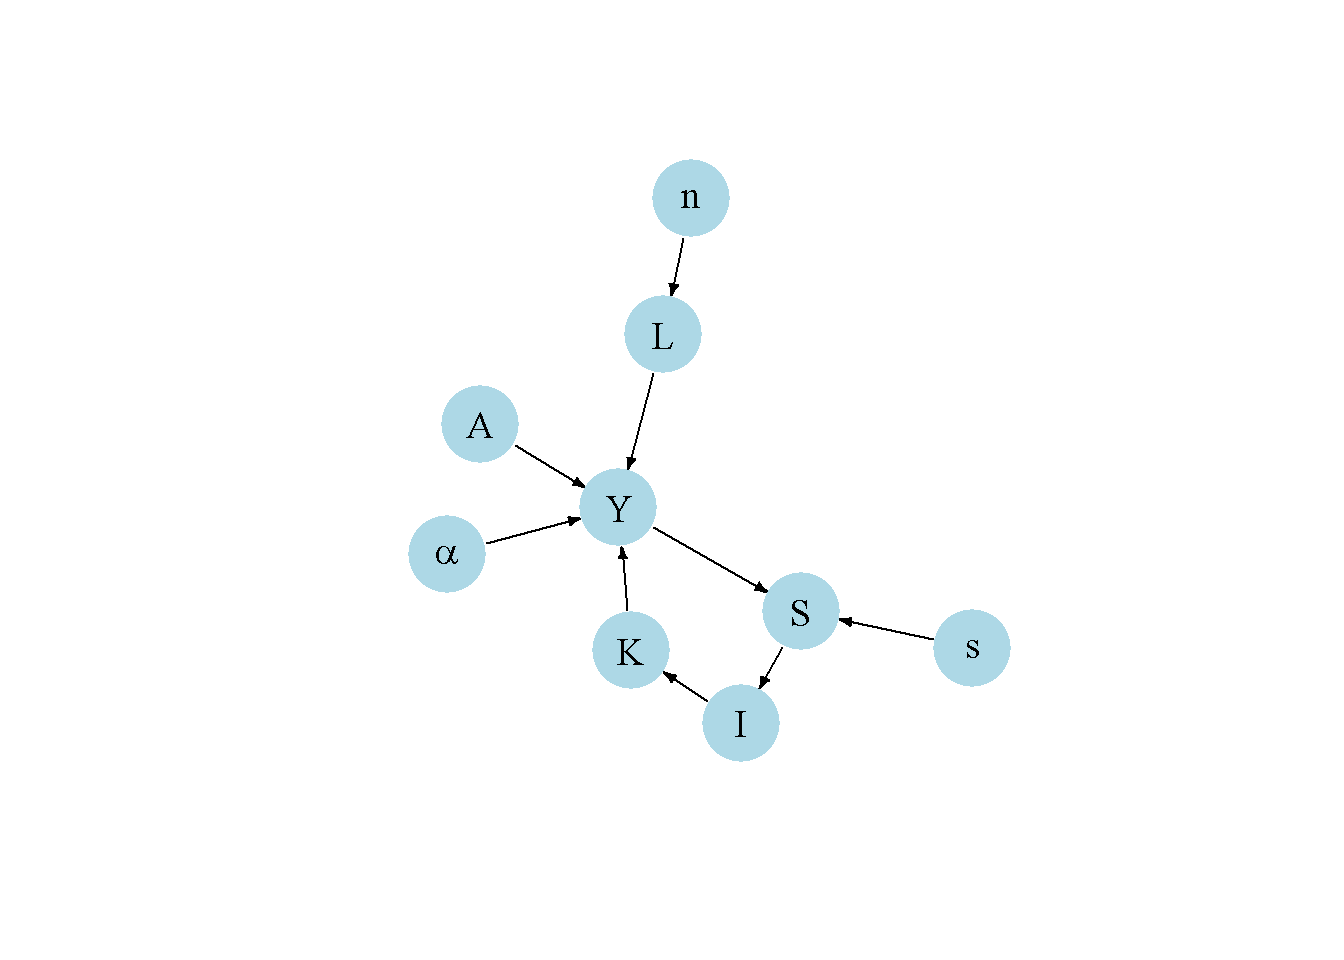
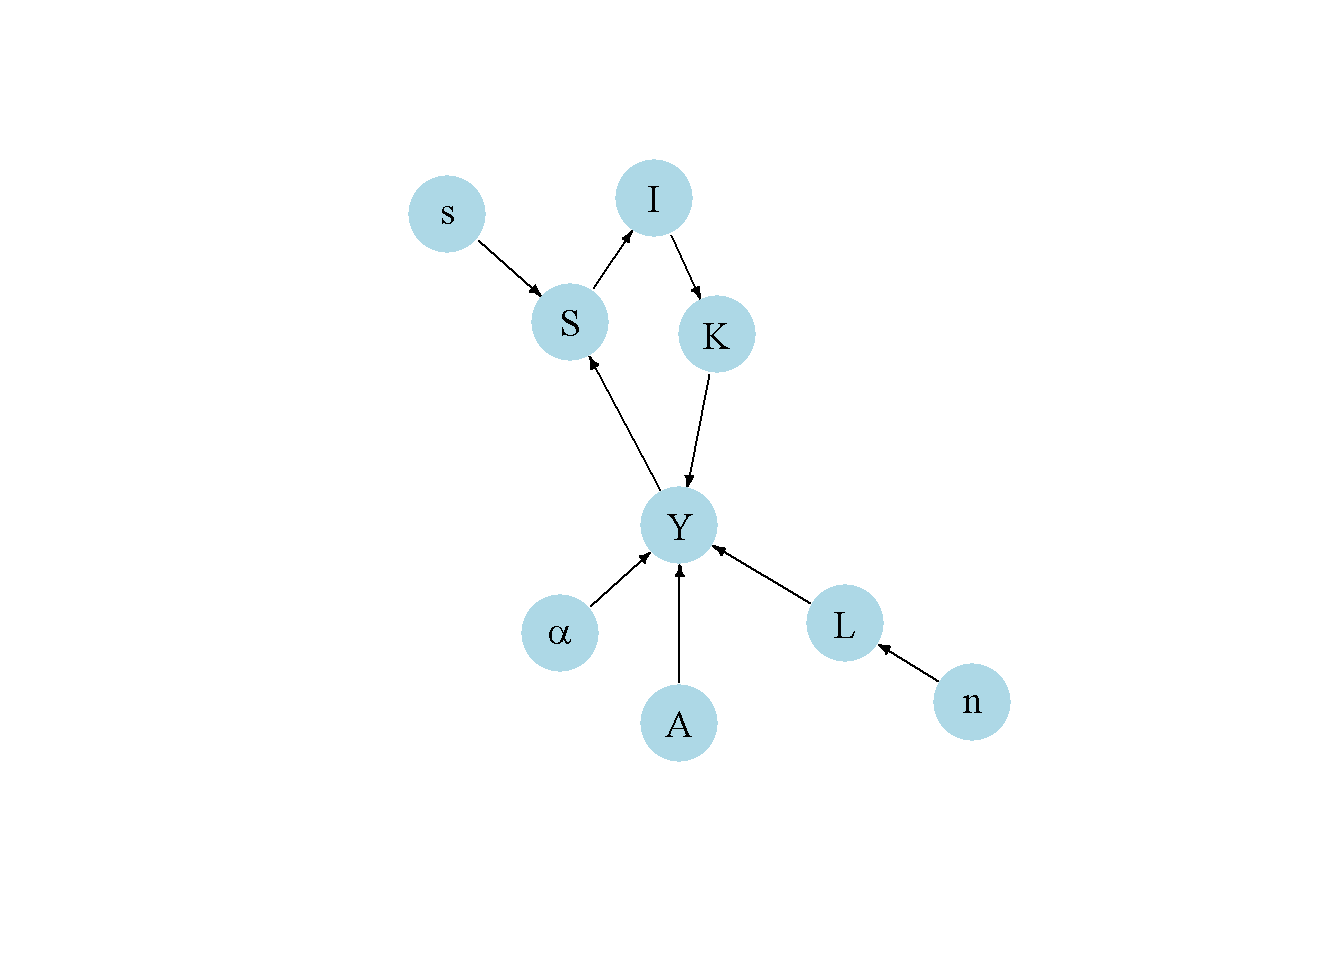
add footnote Solow

diff --git a/_book/a_Solow_model.html b/_book/a_Solow_model.html
@@ -785,7 +785,7 @@ Figure&nbsp;14.1: Logs of output, labour force, and capital
 </div>
 </div>
 </div>
-<p><a href="#fig-output-pt1" class="quarto-xref">Figure&nbsp;<span>14.2</span></a> and <a href="#fig-output-pt2" class="quarto-xref">Figure&nbsp;<span>14.3</span></a> display the dynamics of the output-labour ratio <span class="math inline">\(y=\frac{Y}{L}\)</span> for the different scenarios. During the adjustment from the initialisation to the steady state, the model generates income-per-capita growth. In the steady state, where all variables grow at the same rate, ratios stabilise at finite values. Changes to any of the parameters other than <span class="math inline">\(n\)</span> will change the growth <em>path</em>, but not the growth <em>rate</em>. It can be seen that compared to the baseline, a rise in the saving propensity <span class="math inline">\(s\)</span> raises the growth path and yields a higher steady-state output-labour ratio. A similar effect occurs for a rise in the capital elasticity of output (<span class="math inline">\(\alpha\)</span>).</p>
+<p><a href="#fig-output-pt1" class="quarto-xref">Figure&nbsp;<span>14.2</span></a> and <a href="#fig-output-pt2" class="quarto-xref">Figure&nbsp;<span>14.3</span></a> display the dynamics of the output-labour ratio <span class="math inline">\(y=\frac{Y}{L}\)</span> for the different scenarios. During the adjustment from the initialisation to the steady state, the model generates income-per-capita growth. In the steady state, where all variables grow at the same rate, ratios stabilise at finite values. Changes to any of the parameters other than <span class="math inline">\(n\)</span> will change the growth <em>path</em>, but not the growth <em>rate</em>. It can be seen that compared to the baseline, a rise in the saving propensity <span class="math inline">\(s\)</span> raises the growth path and yields a higher steady-state output-labour ratio. A similar effect occurs for a rise in the capital elasticity of output (<span class="math inline">\(\alpha\)</span>).<a href="#fn2" class="footnote-ref" id="fnref2" role="doc-noteref"><sup>2</sup></a></p>
 <div class="cell">
 <div class="code-copy-outer-scaffold"><div class="sourceCode" id="cb4"><pre class="downlit sourceCode r code-with-copy"><code class="sourceCode R"><span><span class="co"># compute output-labour ratio</span></span>
 <span><span class="va">y</span><span class="op">=</span><span class="va">Y</span><span class="op">/</span><span class="va">L</span></span>
@@ -1088,7 +1088,7 @@ Figure&nbsp;14.4: Directed graph of Solow model
 <p>We have seen that the neoclassical growth model with fixed total factor productivity <span class="math inline">\(A\)</span> does not generate permanent income-per-capita growth. A common extension is to let productivity grow at an exogenous rate <span class="math inline">\(\mu\)</span>:</p>
 <p><span class="math display">\[
 \dot{A}=A\mu.
-\]</span> For exogenous technical progress to yield balanced growth where output grows at a constant rate and the capital-output ratio remains constant in the steady state, it must be <em>labour augmenting</em>:<a href="#fn2" class="footnote-ref" id="fnref2" role="doc-noteref"><sup>2</sup></a> <span class="math inline">\(Y_t=F(K_t, A_t L_t)\)</span>.</p>
+\]</span> For exogenous technical progress to yield balanced growth where output grows at a constant rate and the capital-output ratio remains constant in the steady state, it must be <em>labour augmenting</em>:<a href="#fn3" class="footnote-ref" id="fnref3" role="doc-noteref"><sup>3</sup></a> <span class="math inline">\(Y_t=F(K_t, A_t L_t)\)</span>.</p>
 <p>With a Cobb-Douglas production function, this requires:</p>
 <p><span id="eq-solow_y_aug"><span class="math display">\[
 Y_{t}=  K_t^{\alpha} (A_tL_t)^{1-\alpha},  \quad \alpha \in (0,1).
@@ -1492,7 +1492,8 @@ Solow, Robert M. 1956. <span>“A Contribution to the Theory of Economic Growth.
 </section><section id="footnotes" class="footnotes footnotes-end-of-document" role="doc-endnotes"><hr>
 <ol>
 <li id="fn1"><p>An intermediate textbook treatment of the model can be found in chapter 5 of <span class="citation" data-cites="Garin2021">Garín et al. (<a href="#ref-Garin2021" role="doc-biblioref">2021</a>)</span>. A rigorous formal analysis is presented in chapter 2 of <span class="citation" data-cites="Acemoglu2009">Acemoglu (<a href="#ref-Acemoglu2009" role="doc-biblioref">2009</a>)</span>.<a href="#fnref1" class="footnote-back" role="doc-backlink">↩</a></p></li>
-<li id="fn2"><p>See <span class="citation" data-cites="Acemoglu2009">Acemoglu (<a href="#ref-Acemoglu2009" role="doc-biblioref">2009</a>)</span>, chap.&nbsp;2.7, for details. Labour-augmenting technical progress is also called Harrod-neutral.<a href="#fnref2" class="footnote-back" role="doc-backlink">↩</a></p></li>
+<li id="fn2"><p>This effect is ambiguous in general – it depends on whether <span class="math inline">\(sA \gtrless n+\delta\)</span> – but is positive for the parameterisation used here.<a href="#fnref2" class="footnote-back" role="doc-backlink">↩</a></p></li>
+<li id="fn3"><p>See <span class="citation" data-cites="Acemoglu2009">Acemoglu (<a href="#ref-Acemoglu2009" role="doc-biblioref">2009</a>)</span>, chap.&nbsp;2.7, for details. Labour-augmenting technical progress is also called Harrod-neutral.<a href="#fnref3" class="footnote-back" role="doc-backlink">↩</a></p></li>
 </ol></section></main><!-- /main --><script id="quarto-html-after-body" type="application/javascript">
   window.document.addEventListener("DOMContentLoaded", function (event) {
     // Ensure there is a toggle, if there isn't float one in the top right
